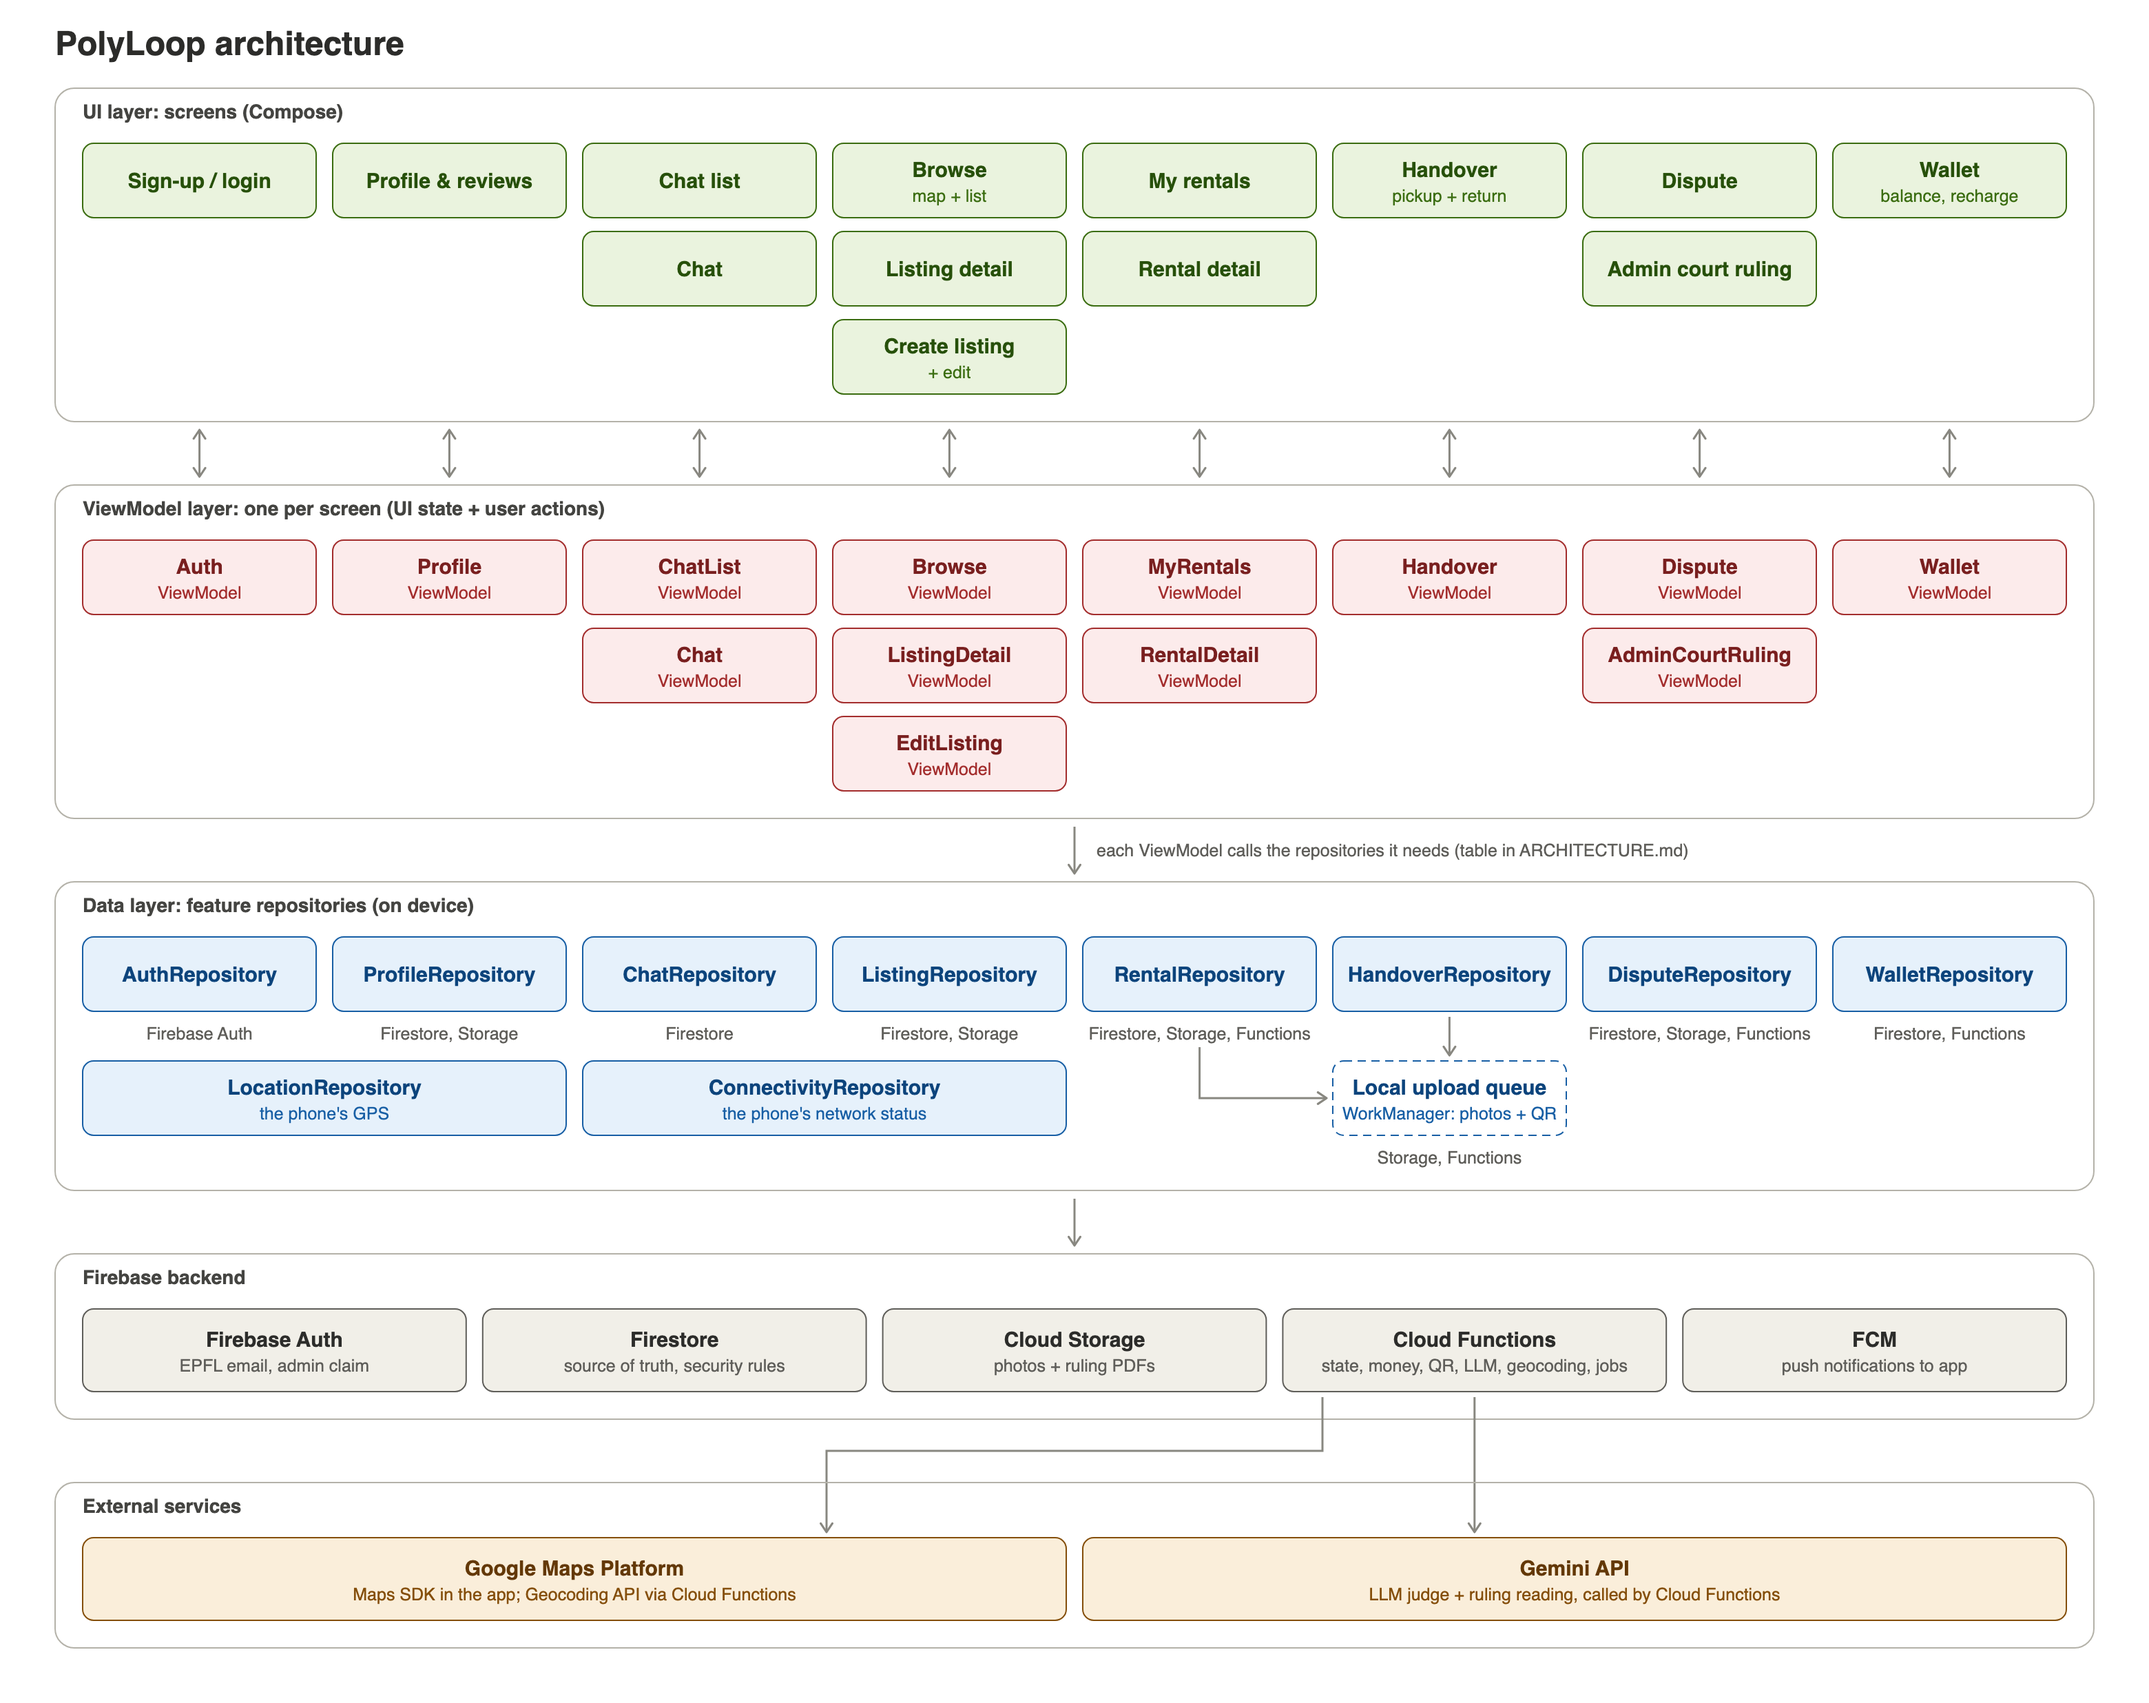
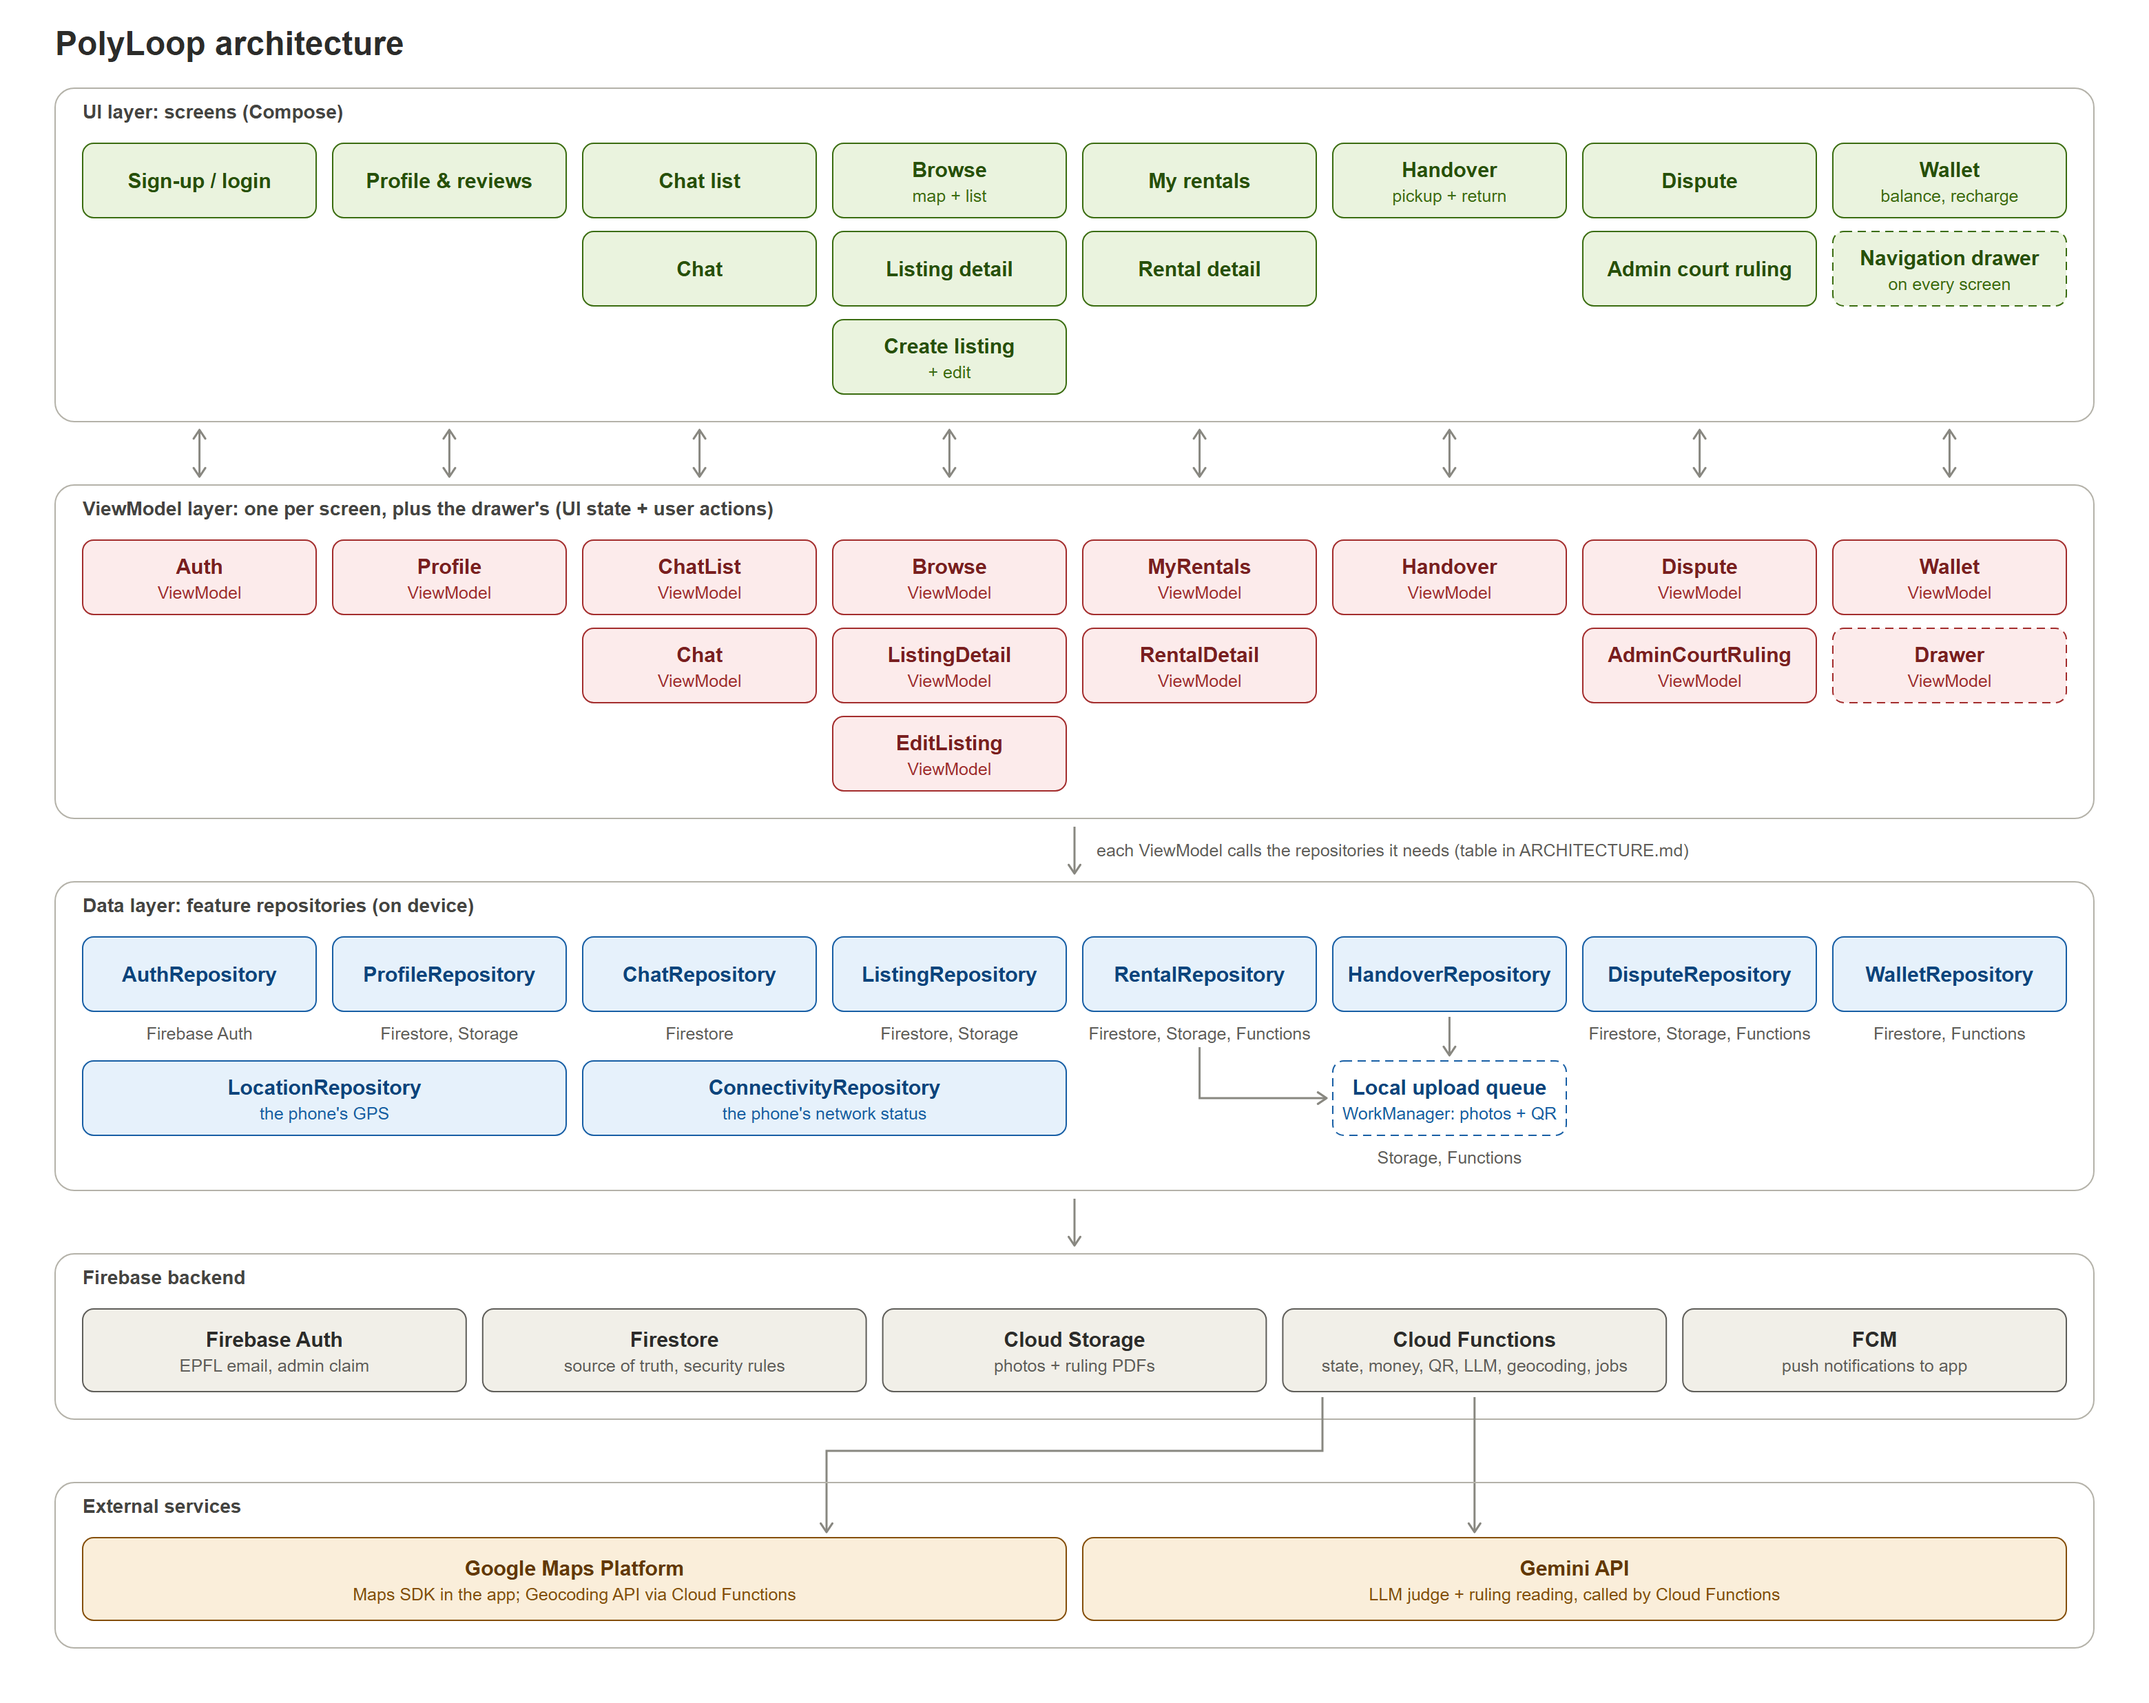
fix: address the review of the navigation drawer
- Back closes the drawer on every screen, not only on Browse: its back
  handler is added while the drawer opens, after the NavHost's, so it
  is called first.
- Theme sets surfaceContainerLow to white, so the drawer sheet uses the
  PolyLoop palette instead of Material's tinted default.
- The avatar falls back to the initial when the photo cannot load.
- The DrawerViewModel test now fails if refresh() listens again for the
  user already followed.
- Architecture diagram: Navigation drawer and Drawer ViewModel boxes.
- Rename C.Tag.topBarMenuItem to drawerItem, fix the KDoc that still
  said "top-bar menu", scroll to drawer items in tests and drop the
  duplicated drawer tests.

diff --git a/app/src/androidTest/java/com/swent/polyloop/PolyLoopAppTest.kt b/app/src/androidTest/java/com/swent/polyloop/PolyLoopAppTest.kt
@@ -7,8 +7,6 @@ import androidx.activity.OnBackPressedDispatcher
 import androidx.activity.compose.LocalOnBackPressedDispatcherOwner
 import androidx.compose.ui.test.assertIsDisplayed
 import androidx.compose.ui.test.assertIsNotDisplayed
-import androidx.compose.ui.test.assertIsNotSelected
-import androidx.compose.ui.test.assertIsSelected
 import androidx.compose.ui.test.assertTextEquals
 import androidx.compose.ui.test.junit4.v2.createComposeRule
 import androidx.compose.ui.test.onAllNodesWithTag
@@ -217,7 +215,7 @@ class PolyLoopAppTest {
 
   private fun openFromMenu(screen: Screen.TopLevel) {
     composeTestRule.onNodeWithTag(C.Tag.top_bar_menu_button).performClick()
-    composeTestRule.onNodeWithTag(C.Tag.topBarMenuItem(screen.route)).performClick()
+    composeTestRule.onNodeWithTag(C.Tag.drawerItem(screen.route)).performScrollTo().performClick()
   }
 
   private fun assertCurrentScreen(screen: Screen, shownRoute: String = screen.route) {
@@ -436,9 +434,9 @@ class PolyLoopAppTest {
 
     composeTestRule.onNodeWithTag(C.Tag.top_bar_menu_button).performClick()
 
-    composeTestRule.onNodeWithTag(C.Tag.topBarMenuItem(Screen.Wallet.route)).assertIsDisplayed()
+    composeTestRule.onNodeWithTag(C.Tag.drawerItem(Screen.Wallet.route)).assertIsDisplayed()
     composeTestRule
-        .onNodeWithTag(C.Tag.topBarMenuItem(Screen.AdminCourtRuling.route))
+        .onNodeWithTag(C.Tag.drawerItem(Screen.AdminCourtRuling.route))
         .assertDoesNotExist()
   }
 
@@ -450,17 +448,6 @@ class PolyLoopAppTest {
 
     composeTestRule.onNodeWithTag(C.Tag.drawer).assertIsDisplayed()
     composeTestRule.onNodeWithTag(C.Tag.drawer_name).assertTextEquals("Me")
-  }
-
-  @Test
-  fun drawerHighlightsTheCurrentScreen() {
-    setAppSignedIn()
-    openFromMenu(Screen.Wallet)
-
-    composeTestRule.onNodeWithTag(C.Tag.top_bar_menu_button).performClick()
-
-    composeTestRule.onNodeWithTag(C.Tag.topBarMenuItem(Screen.Wallet.route)).assertIsSelected()
-    composeTestRule.onNodeWithTag(C.Tag.topBarMenuItem(Screen.Browse.route)).assertIsNotSelected()
   }
 
   @Test
@@ -476,13 +463,15 @@ class PolyLoopAppTest {
   @Test
   fun backClosesTheDrawerAndStaysOnTheScreen() {
     setAppSignedIn()
+    // Not on Browse: there the NavHost has nothing to pop, so it would not compete for Back.
+    openFromMenu(Screen.Wallet)
     composeTestRule.onNodeWithTag(C.Tag.top_bar_menu_button).performClick()
     composeTestRule.onNodeWithTag(C.Tag.drawer).assertIsDisplayed()
 
     composeTestRule.runOnUiThread { backDispatcher.onBackPressed() }
 
     composeTestRule.onNodeWithTag(C.Tag.drawer).assertIsNotDisplayed()
-    assertCurrentScreen(Screen.Browse)
+    assertCurrentScreen(Screen.Wallet)
   }
 
   @Test

diff --git a/app/src/androidTest/java/com/swent/polyloop/ui/navigation/PolyLoopDrawerTest.kt b/app/src/androidTest/java/com/swent/polyloop/ui/navigation/PolyLoopDrawerTest.kt
@@ -7,6 +7,7 @@ import androidx.compose.ui.test.assertIsNotSelected
 import androidx.compose.ui.test.assertIsSelected
 import androidx.compose.ui.test.assertTextEquals
 import androidx.compose.ui.test.junit4.v2.createComposeRule
+import androidx.compose.ui.test.onAllNodesWithTag
 import androidx.compose.ui.test.onNodeWithTag
 import androidx.compose.ui.test.performClick
 import androidx.compose.ui.test.performScrollTo
@@ -55,7 +56,7 @@ class PolyLoopDrawerTest {
 
   private fun node(tag: String) = composeTestRule.onNodeWithTag(tag)
 
-  private fun item(screen: Screen.TopLevel) = node(C.Tag.topBarMenuItem(screen.route))
+  private fun item(screen: Screen.TopLevel) = node(C.Tag.drawerItem(screen.route))
 
   // Inside the clickable item, whose semantics merge it away.
   private fun badge() =
@@ -76,10 +77,31 @@ class PolyLoopDrawerTest {
 
   @Test
   fun headerShowsThePhotoInsteadOfTheInitial() {
-    setDrawer(profile = john.copy(photoUrl = "https://example.com/john.jpg"))
+    // A local image, so the photo loads without the network and never falls back.
+    setDrawer(
+        profile =
+            john.copy(
+                photoUrl = "android.resource://${context.packageName}/${R.drawable.ic_wallet}"
+            )
+    )
 
     node(C.Tag.drawer_avatar_photo).assertExists()
     node(C.Tag.drawer_avatar_initial).assertDoesNotExist()
+  }
+
+  @Test
+  fun headerShowsTheInitialWhenThePhotoCannotLoad() {
+    // No image loader handles this scheme, so loading fails without touching the network.
+    setDrawer(profile = john.copy(photoUrl = "broken://john.jpg"))
+
+    composeTestRule.waitUntil(timeoutMillis = 5_000) {
+      composeTestRule
+          .onAllNodesWithTag(C.Tag.drawer_avatar_initial)
+          .fetchSemanticsNodes()
+          .isNotEmpty()
+    }
+    node(C.Tag.drawer_avatar_initial).assertTextEquals("J")
+    node(C.Tag.drawer_avatar_photo).assertDoesNotExist()
   }
 
   @Test
@@ -148,8 +170,5 @@ class PolyLoopDrawerTest {
 
     item(Screen.AdminCourtRuling).performScrollTo().assertIsDisplayed()
     badge().assertIsDisplayed()
-
-    item(Screen.AdminCourtRuling).performClick()
-    assertEquals(listOf<Screen.TopLevel>(Screen.AdminCourtRuling), clicked)
   }
 }

diff --git a/app/src/main/java/com/swent/polyloop/ui/navigation/PolyLoopDrawer.kt b/app/src/main/java/com/swent/polyloop/ui/navigation/PolyLoopDrawer.kt
@@ -28,6 +28,10 @@ import androidx.compose.material3.ModalDrawerSheet
 import androidx.compose.material3.NavigationDrawerItem
 import androidx.compose.material3.Text
 import androidx.compose.runtime.Composable
+import androidx.compose.runtime.getValue
+import androidx.compose.runtime.mutableStateOf
+import androidx.compose.runtime.remember
+import androidx.compose.runtime.setValue
 import androidx.compose.ui.Alignment
 import androidx.compose.ui.Modifier
 import androidx.compose.ui.draw.clip
@@ -99,11 +103,15 @@ private fun DrawerHeader(profile: UserProfile?) {
                 .background(MaterialTheme.colorScheme.surfaceVariant),
         contentAlignment = Alignment.Center,
     ) {
-      if (profile != null && profile.photoUrl.isNotBlank()) {
+      val photoUrl = profile?.photoUrl.orEmpty()
+      // A photo that cannot load falls back to the initial, until the URL changes.
+      var photoFailed by remember(photoUrl) { mutableStateOf(false) }
+      if (photoUrl.isNotBlank() && !photoFailed) {
         AsyncImage(
-            model = profile.photoUrl,
+            model = photoUrl,
             contentDescription = null,
             contentScale = ContentScale.Crop,
+            onError = { photoFailed = true },
             modifier = Modifier.fillMaxSize().testTag(C.Tag.drawer_avatar_photo),
         )
       } else {
@@ -171,7 +179,7 @@ private fun DrawerItem(
       },
       selected = selected,
       onClick = { onClick(screen) },
-      modifier = Modifier.padding(horizontal = 12.dp).testTag(C.Tag.topBarMenuItem(screen.route)),
+      modifier = Modifier.padding(horizontal = 12.dp).testTag(C.Tag.drawerItem(screen.route)),
   )
 }
 

diff --git a/app/src/test/java/com/swent/polyloop/ui/navigation/DrawerViewModelTest.kt b/app/src/test/java/com/swent/polyloop/ui/navigation/DrawerViewModelTest.kt
@@ -7,6 +7,7 @@ import com.swent.polyloop.model.auth.AuthUser
 import com.swent.polyloop.model.auth.FakeAuthRepository
 import com.swent.polyloop.model.profile.FakeProfileRepository
 import com.swent.polyloop.model.profile.UserProfile
+import kotlinx.coroutines.CompletableDeferred
 import kotlinx.coroutines.Dispatchers
 import kotlinx.coroutines.ExperimentalCoroutinesApi
 import kotlinx.coroutines.test.UnconfinedTestDispatcher
@@ -103,8 +104,10 @@ class DrawerViewModelTest {
   }
 
   @Test
-  fun refreshWithTheSameUserKeepsTheProfile() {
+  fun refreshWithTheSameUserKeepsTheProfileWithoutListeningAgain() {
     val vm = viewModel()
+    // A new listener would wait here before its first value, leaving the header empty.
+    profiles.gate = CompletableDeferred()
 
     vm.refresh()
 

diff --git a/app/src/main/java/com/swent/polyloop/ui/navigation/Screen.kt b/app/src/main/java/com/swent/polyloop/ui/navigation/Screen.kt
@@ -13,7 +13,7 @@ import com.swent.polyloop.R
  */
 sealed class Screen(val route: String) {
 
-  /** A destination listed in the top-bar menu, under [labelRes]. */
+  /** A destination listed in the navigation drawer, under [labelRes]. */
   sealed class TopLevel(route: String, @StringRes val labelRes: Int) : Screen(route)
 
   data object Auth : Screen("auth")
@@ -69,7 +69,7 @@ sealed class Screen(val route: String) {
     const val ARG_RENTAL_ID = "rentalId"
     const val ARG_USER_ID = "userId"
 
-    /** The screens listed in the top-bar menu, in menu order. */
+    /** The screens listed in the navigation drawer, in drawer order. */
     fun topLevelDestinations(isAdmin: Boolean): List<TopLevel> =
         listOfNotNull(
             Browse,

diff --git a/app/src/main/java/com/swent/polyloop/resources/C.kt b/app/src/main/java/com/swent/polyloop/resources/C.kt
@@ -180,10 +180,11 @@ object C {
     const val top_bar_menu_button = "top_bar_menu_button"
     const val top_bar_profile_button = "top_bar_profile_button"
 
-    // Each destination's item in the navigation drawer opened by the menu button
-    fun topBarMenuItem(route: String) = "top_bar_menu_item_$route"
-
     const val drawer = "drawer"
+
+    // Each destination's item in the navigation drawer opened by the menu button
+    fun drawerItem(route: String) = "drawer_item_$route"
+
     const val drawer_avatar_initial = "drawer_avatar_initial"
     const val drawer_avatar_photo = "drawer_avatar_photo"
     const val drawer_name = "drawer_name"

diff --git a/app/src/main/java/com/swent/polyloop/PolyLoopApp.kt b/app/src/main/java/com/swent/polyloop/PolyLoopApp.kt
@@ -87,7 +87,11 @@ fun PolyLoopApp(
   LaunchedEffect(currentRoute) { drawerViewModel.refresh() }
   val drawerState = rememberDrawerState(DrawerValue.Closed)
   val scope = rememberCoroutineScope()
-  BackHandler(enabled = drawerState.isOpen) { scope.launch { drawerState.close() } }
+  // Added only while the drawer opens or is open, so it is registered after the NavHost's handler
+  // and called first: Back closes the drawer instead of leaving the screen under it.
+  if (drawerState.targetValue == DrawerValue.Open) {
+    BackHandler { scope.launch { drawerState.close() } }
+  }
 
   ModalNavigationDrawer(
       drawerState = drawerState,

diff --git a/app/src/androidTest/java/com/swent/polyloop/EndToEndTest.kt b/app/src/androidTest/java/com/swent/polyloop/EndToEndTest.kt
@@ -443,7 +443,7 @@ class EndToEndTest {
 
   private fun openFromMenu(screen: Screen.TopLevel) {
     composeTestRule.onNodeWithTag(C.Tag.top_bar_menu_button).performClick()
-    composeTestRule.onNodeWithTag(C.Tag.topBarMenuItem(screen.route)).performClick()
+    composeTestRule.onNodeWithTag(C.Tag.drawerItem(screen.route)).performScrollTo().performClick()
   }
 
   private fun fillField(tag: String, text: String) {

diff --git a/app/src/androidTest/java/com/swent/polyloop/ui/theme/PolyLoopThemeTest.kt b/app/src/androidTest/java/com/swent/polyloop/ui/theme/PolyLoopThemeTest.kt
@@ -70,6 +70,7 @@ class PolyLoopThemeTest {
     assertEquals(Sand, colorScheme.surfaceVariant)
     assertEquals(Stone, colorScheme.onSurfaceVariant)
     assertEquals(Color.White, colorScheme.surfaceContainer)
+    assertEquals(Color.White, colorScheme.surfaceContainerLow)
     assertEquals(Border, colorScheme.outline)
     assertEquals(Border, colorScheme.outlineVariant)
   }

diff --git a/app/src/main/java/com/swent/polyloop/ui/theme/Theme.kt b/app/src/main/java/com/swent/polyloop/ui/theme/Theme.kt
@@ -33,6 +33,8 @@ private val LightColorScheme =
         surfaceVariant = Sand,
         onSurfaceVariant = Stone,
         surfaceContainer = Color.White,
+        // The navigation drawer and bottom sheets; Material's default is tinted.
+        surfaceContainerLow = Color.White,
         outline = Border,
         outlineVariant = Border,
     )
